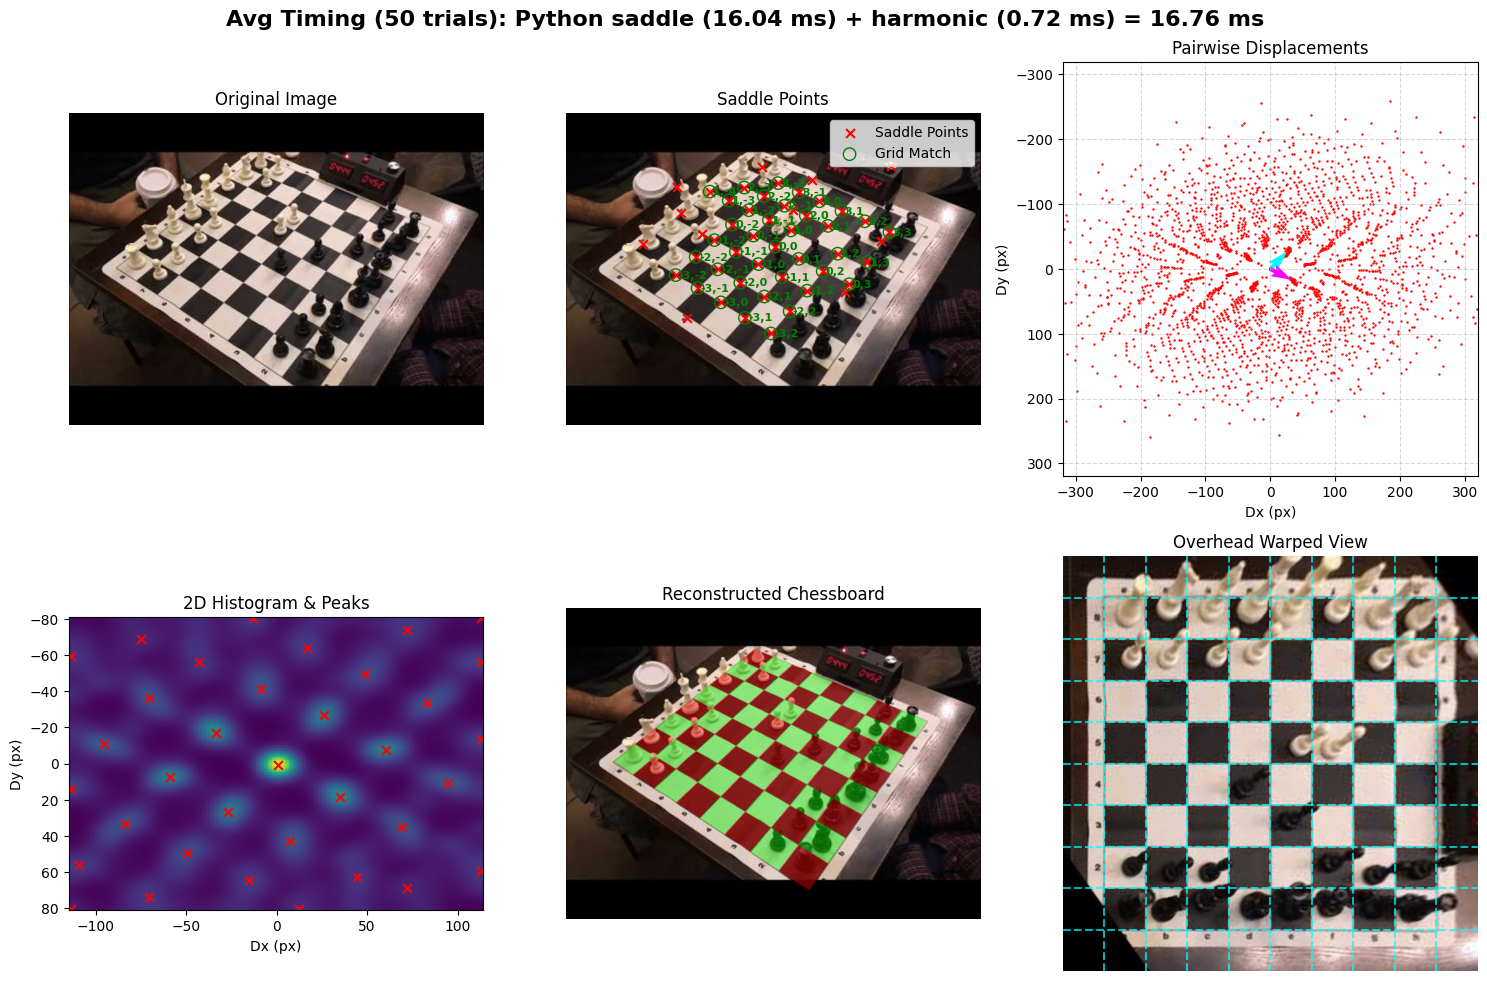
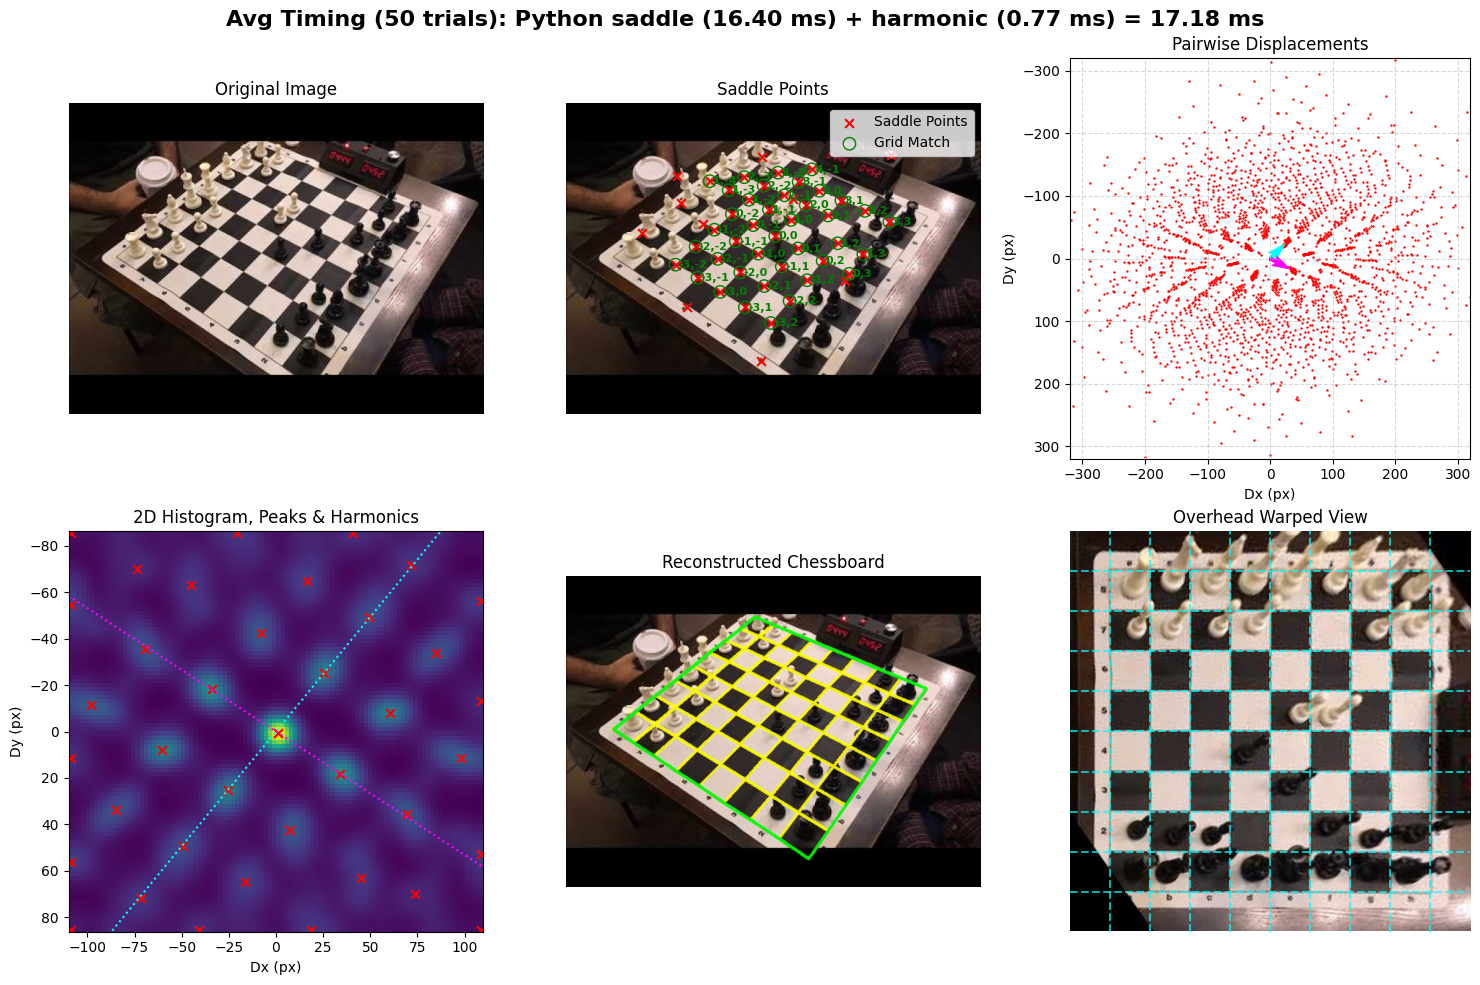
update visuals

diff --git a/utils_visualize.py b/utils_visualize.py
@@ -5,8 +5,7 @@ import matplotlib.pyplot as plt
 
 def draw_checkerboard_on_image(image, homography, alpha_blend=0.4) -> np.ndarray:
     """
-    Draws a warped checkerboard pattern on an image using a homography.
-    The checkerboard is defined as a centered 8x8 grid in "lattice space".
+    Draws a checkerboard pattern on an image using a homography.
     """
     if homography is None:
         return image
@@ -36,6 +35,129 @@ def draw_checkerboard_on_image(image, homography, alpha_blend=0.4) -> np.ndarray
                 cv2.fillPoly(overlay, [corners], color)
 
     final_img = cv2.addWeighted(overlay, alpha_blend, image, 1 - alpha_blend, 0)
+    return final_img
+
+def draw_board_grid_on_image(image, homography, alpha_blend=0.4) -> np.ndarray:
+    """
+    Draws a chessboard grid pattern on an image using a homography.
+    """
+    if homography is None:
+        return image
+    
+    rows, cols = 8, 8
+    # Notice the order: y, x for meshgrid to match the vertex ordering
+    y, x = np.meshgrid(np.arange(-4, -4+rows+1), np.arange(-4, -4+cols+1))
+    object_points = np.stack((x.ravel(), y.ravel()), axis=-1).astype(np.float32)
+    warped_points = cv2.perspectiveTransform(object_points.reshape(-1, 1, 2), homography)
+    # Ensure image is in 8-bit RGB format for consistent drawing
+    if len(image.shape) == 2:
+        image_rgb = cv2.cvtColor(image, cv2.COLOR_GRAY2RGB)
+    elif image.shape[2] == 4:
+        image_rgb = cv2.cvtColor(image, cv2.COLOR_RGBA2RGB)
+    else:
+        image_rgb = image.copy()
+        
+    if image_rgb.dtype != np.uint8:
+        if np.max(image_rgb) <= 1.01:
+            image_rgb = (image_rgb * 255).astype(np.uint8)
+        else:
+            image_rgb = image_rgb.astype(np.uint8)
+
+    overlay = image_rgb.copy()
+    
+    if warped_points is not None:
+        warped_points = warped_points.reshape(-1, 2).astype(np.int32)
+        verts_per_row = cols + 1
+        for r in range(rows):
+            for c in range(cols):
+                p1_idx = r * verts_per_row + c
+                p2_idx = p1_idx + 1
+                p3_idx = (r + 1) * verts_per_row + c
+                p4_idx = p3_idx + 1
+                corners = np.array([warped_points[p1_idx], warped_points[p2_idx], warped_points[p4_idx], warped_points[p3_idx]])
+                
+                # Image is in RGB, so (0, 255, 0) is green, (255, 0, 0) is red
+                color = (0, 255, 0) if (r + c) % 2 == 0 else (255, 0, 0)
+                cv2.fillPoly(overlay, [corners], color)
+
+    final_img = cv2.addWeighted(overlay, alpha_blend, image_rgb, 1 - alpha_blend, 0)
+    return final_img
+
+def draw_board_grid_on_image(image, homography, alpha_blend=0.4) -> np.ndarray:
+    """
+    Draws a board grid pattern on an image using a homography.
+    The board is defined as a centered 8x8 grid in "lattice space".
+    """
+    if homography is None:
+        return image
+    
+    rows, cols = 8, 8
+    # Notice the order: y, x for meshgrid to match the vertex ordering
+    y, x = np.meshgrid(np.arange(-4, -4+rows+1), np.arange(-4, -4+cols+1))
+    object_points = np.stack((x.ravel(), y.ravel()), axis=-1).astype(np.float32)
+    warped_points = cv2.perspectiveTransform(object_points.reshape(-1, 1, 2), homography)
+    # Ensure image is in 8-bit RGB format for consistent drawing
+    if len(image.shape) == 2:
+        image_rgb = cv2.cvtColor(image, cv2.COLOR_GRAY2RGB)
+    elif image.shape[2] == 4:
+        image_rgb = cv2.cvtColor(image, cv2.COLOR_RGBA2RGB)
+    else:
+        image_rgb = image.copy()
+        
+    if image_rgb.dtype != np.uint8:
+        if np.max(image_rgb) <= 1.01:
+            image_rgb = (image_rgb * 255).astype(np.uint8)
+        else:
+            image_rgb = image_rgb.astype(np.uint8)
+
+    overlay = image_rgb.copy()
+    
+    if warped_points is not None:
+        warped_points = warped_points.reshape(-1, 2).astype(np.int32)
+        verts_per_row = cols + 1
+        green = (0, 255, 0)
+        yellow = (255, 255, 0)
+        red = (255, 0, 0)
+        blue = (0, 0, 255)
+        line_thickness = 4
+
+        # Draw internal horizontal grid lines (rows 1..rows-1)
+        for r in range(1, rows):
+            for c in range(cols):
+                pt_a = tuple(warped_points[r * verts_per_row + c])
+                pt_b = tuple(warped_points[r * verts_per_row + c + 1])
+                cv2.line(overlay, pt_a, pt_b, yellow, line_thickness)
+
+        # Draw internal vertical grid lines (cols 1..cols-1)
+        for c in range(1, cols):
+            for r in range(rows):
+                pt_a = tuple(warped_points[r * verts_per_row + c])
+                pt_b = tuple(warped_points[(r + 1) * verts_per_row + c])
+                cv2.line(overlay, pt_a, pt_b, yellow, line_thickness)
+
+        # Draw outer perimeter in yellow
+        # Top edge (row 0)
+        for c in range(cols):
+            pt_a = tuple(warped_points[c])
+            pt_b = tuple(warped_points[c + 1])
+            cv2.line(overlay, pt_a, pt_b, green, line_thickness)
+        # Bottom edge (row = rows)
+        for c in range(cols):
+            pt_a = tuple(warped_points[rows * verts_per_row + c])
+            pt_b = tuple(warped_points[rows * verts_per_row + c + 1])
+            cv2.line(overlay, pt_a, pt_b, green, line_thickness)
+        # Left edge (col 0)
+        for r in range(rows):
+            pt_a = tuple(warped_points[r * verts_per_row])
+            pt_b = tuple(warped_points[(r + 1) * verts_per_row])
+            cv2.line(overlay, pt_a, pt_b, green, line_thickness)
+        # Right edge (col = cols)
+        for r in range(rows):
+            pt_a = tuple(warped_points[r * verts_per_row + cols])
+            pt_b = tuple(warped_points[(r + 1) * verts_per_row + cols])
+            cv2.line(overlay, pt_a, pt_b, green, line_thickness)
+
+    final_img = cv2.addWeighted(overlay, alpha_blend, image_rgb, 1 - alpha_blend, 0)
     return final_img
 
 def visualize_reconstruction(image: np.ndarray, lattice_points: np.ndarray, 
@@ -119,8 +241,8 @@ def visualize_reconstruction(image: np.ndarray, lattice_points: np.ndarray,
     axes[2].grid(True, linestyle='--', alpha=0.5)
     axes[2].invert_yaxis()
     
-    # 4. 2D Histogram & Peaks
-    axes[3].set_title("2D Histogram & Peaks")
+    # 4. 2D Histogram, Peaks & Harmonics
+    axes[3].set_title("2D Histogram, Peaks & Harmonics")
     if debug_info is not None and 'density_map' in debug_info:
         density_map = debug_info['density_map']
         extent = debug_info['extent']
@@ -129,14 +251,27 @@ def visualize_reconstruction(image: np.ndarray, lattice_points: np.ndarray,
         axes[3].imshow(density_map, origin='lower', extent=extent, cmap='viridis')
         if len(peak_vecs) > 0:
             axes[3].scatter(peak_vecs[:, 0], peak_vecs[:, 1], c='red', marker='x', s=40)
+
+        # Draw dotted lines along basis vector directions (same colors as displacement graph)
+        if basis_vectors is not None and len(basis_vectors) >= 2:
+            basis_colors = ['cyan', 'magenta']
+            for i, color in enumerate(basis_colors):
+                v = basis_vectors[i]
+                axes[3].plot([-10*v[0], 10*v[0]], [-10*v[1], 10*v[1]],
+                             color=color, linestyle=':', linewidth=1.5)
+
             
-    axes[3].set_aspect('equal')
+        # Lock axes to histogram extent so the dotted lines don't zoom out
+        axes[3].set_xlim(extent[0], extent[1])
+        axes[3].set_ylim(extent[2], extent[3])
+    
+    axes[3].set_aspect('auto')
     axes[3].set_xlabel('Dx (px)')
     axes[3].set_ylabel('Dy (px)')
     axes[3].invert_yaxis()
 
     # 5. Chessboard Overlay
-    img_overlay = draw_checkerboard_on_image(image, homography_matrix, alpha_blend=0.4)
+    img_overlay = draw_board_grid_on_image(image, homography_matrix, alpha_blend=0.9)
     axes[4].imshow(img_overlay)
     axes[4].set_title("Reconstructed Chessboard")
     axes[4].axis('off')

diff --git a/usage_example.py b/usage_example.py
@@ -16,7 +16,7 @@ def run_simple_detection(image_path: str, output_path: str = "output_simple.png"
     # 1. Load and resize image
     # The saddle solver is tuned for images around 640x480
     image = np.array(Image.open(image_path))
-    image = cv2.resize(image, (640, 480))
+    image = cv2.resize(image, (640, 480), interpolation=cv2.INTER_AREA)
     
     print("Finding saddle points...")
     # 2. Detect saddle points (X-corners)

diff --git a/benchmark.py b/benchmark.py
@@ -29,7 +29,7 @@ def load_and_plot_saddles(image_path: str, img_size: tuple = (640, 480), output_
     """
     # 1. Load the image
     image = np.array(Image.open(image_path))
-    image = cv2.resize(image, img_size)
+    image = cv2.resize(image, img_size, interpolation=cv2.INTER_AREA)
     
     solvers_to_run = []
     if solver_choice in ['all', 'cuda']: solvers_to_run.append(('CUDA', find_saddle_points_cuda)) # ~1ms
